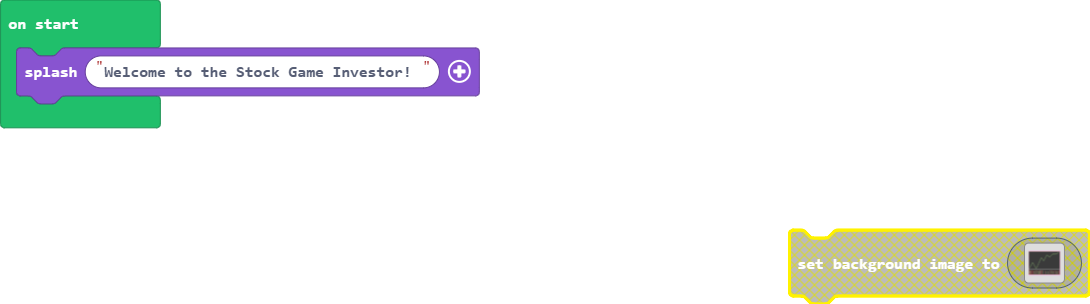
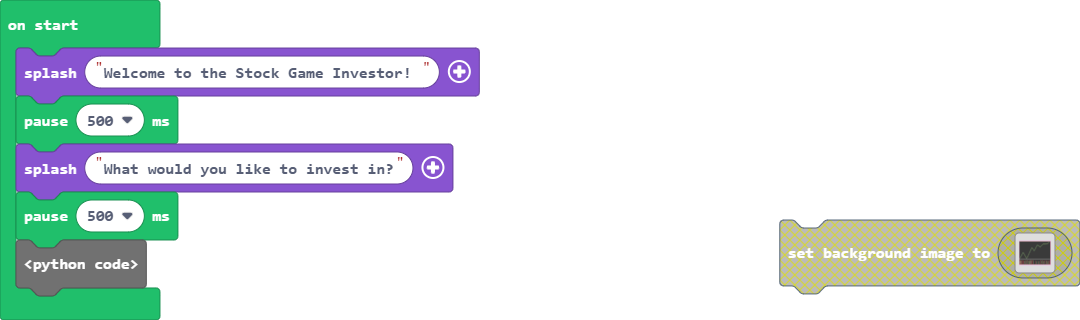
Update main.blocks, main.ts, main.py

Changed region(s): [[0.0, 0.1184, 0.4583, 1.0], [0.7028, 0.6809, 1.0, 1.0], [0.0, 0.0592, 0.0917, 0.1184]]

diff --git a/main.ts b/main.ts
@@ -2,4 +2,11 @@ game.splash("Welcome to the Stock Game Investor! ")
 pause(500)
 game.splash("What would you like to invest in?")
 pause(500)
-game.askForString("Here are your options! NASDAQ and S&P500", 6)
+game.askForString("Here are your options! NASDAQ and S&P", 6)
+if ("S&P") {
+    true
+}
+
+game.splash("you've chosen the S&P!")
+pause(500)
+game.splash("This is its current Value: ")

diff --git a/main.py b/main.py
@@ -1,7 +1,12 @@
+
+
 game.splash("Welcome to the Stock Game Investor! ")
 pause(500)
 game.splash("What would you like to invest in?")
 pause(500)
-game.ask_for_string("Here are your options! NASDAQ and S&P500", 6)
+game.ask_for_string("Here are your options! NASDAQ and S&P", 6)
 
-
+if "S&P": True 
+game.splash("you've chosen the S&P!")
+pause(500)
+game.splash("This is its current Value: ")
